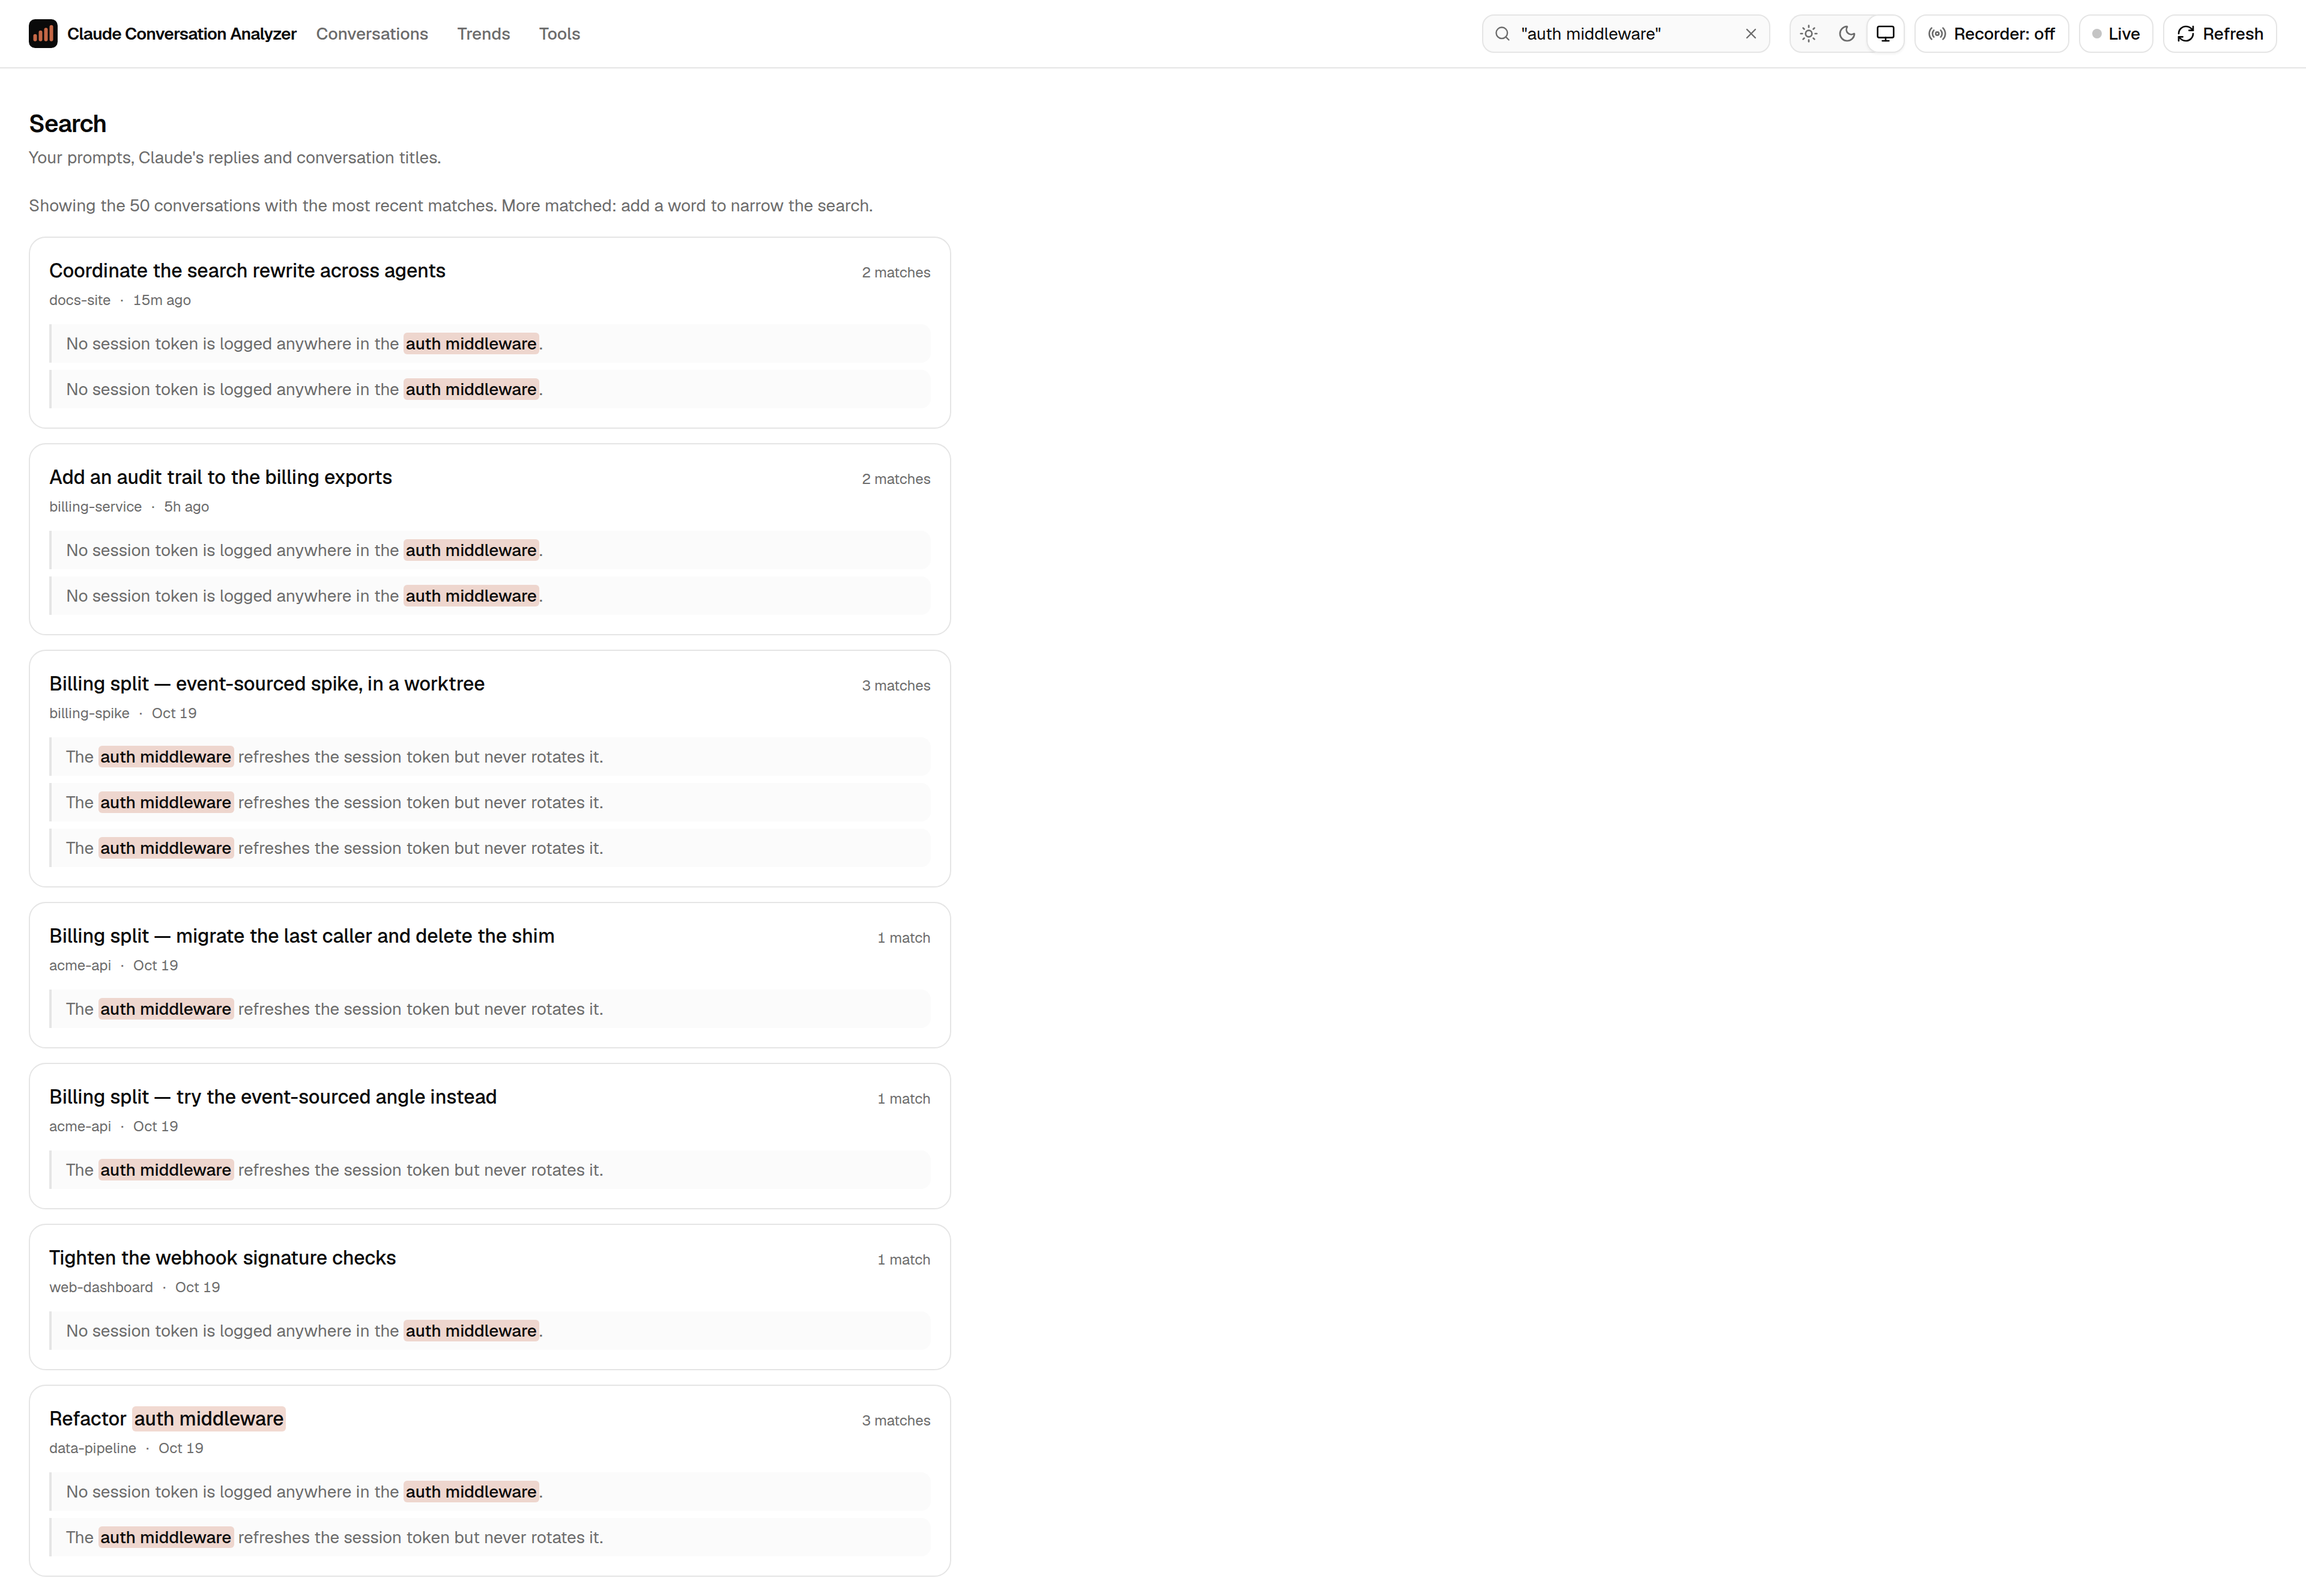
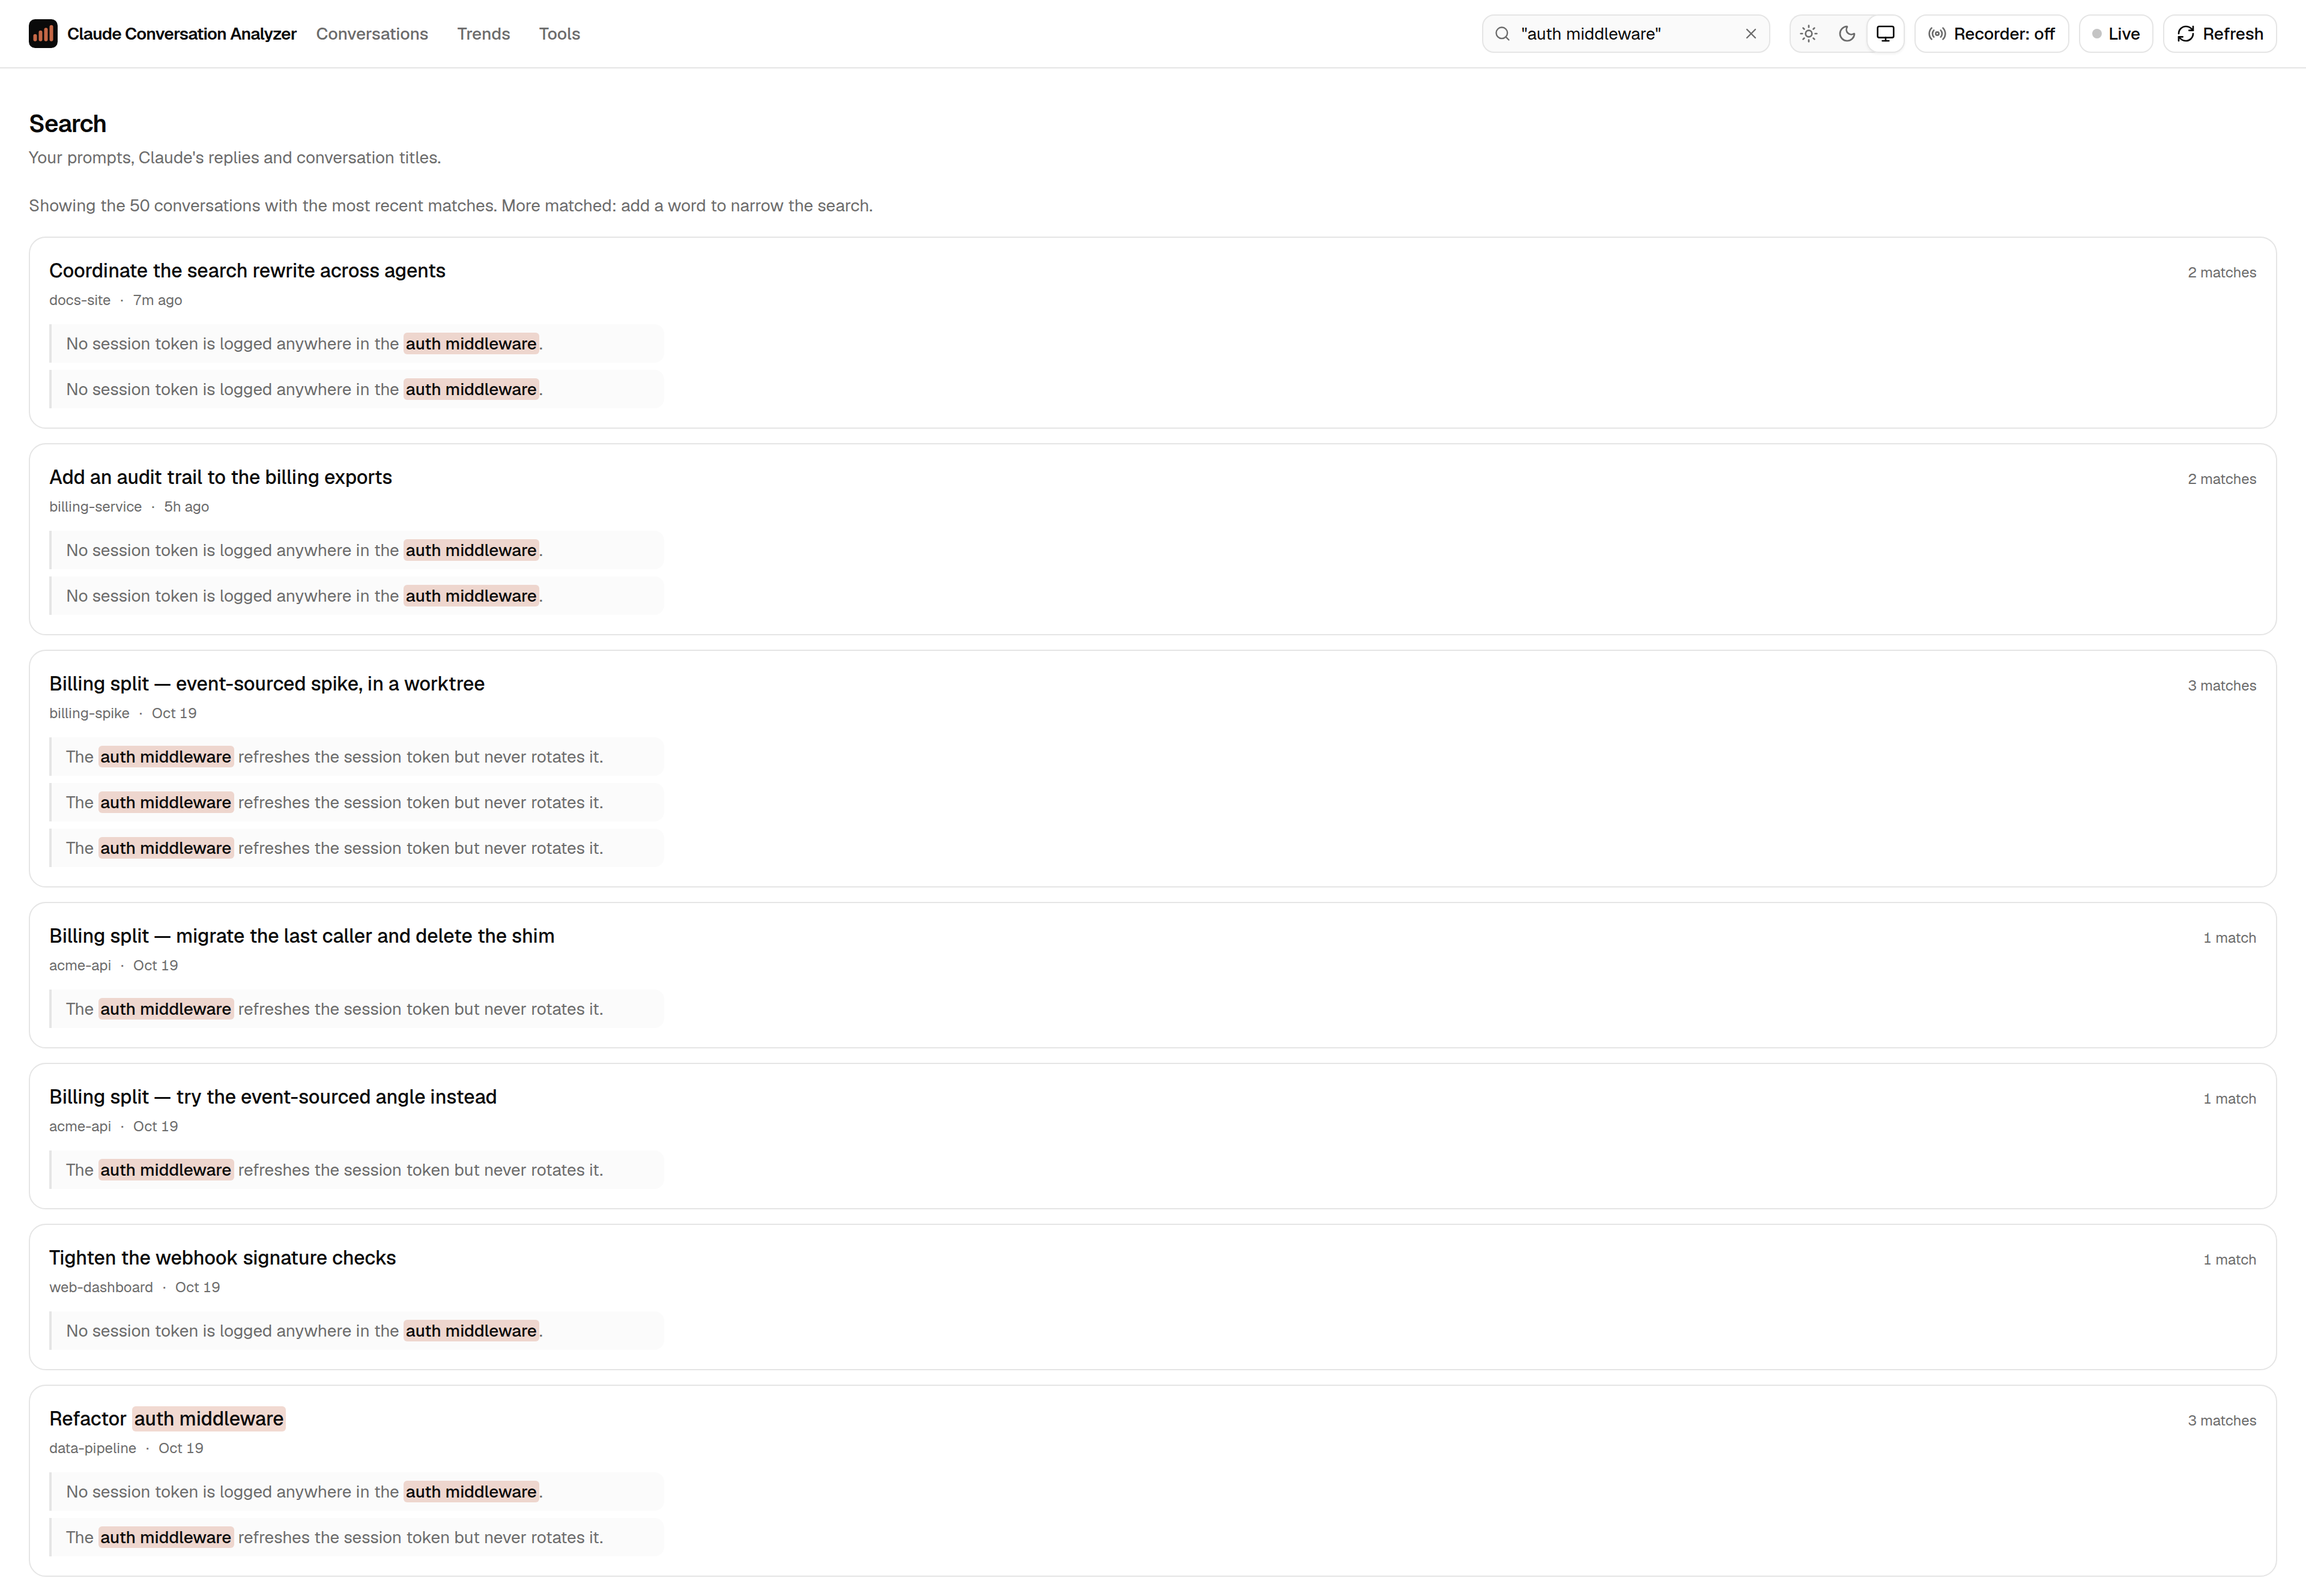
Search results take the 1920px frame; extracts keep the reading measure (#212)
* feat(search): results take the frame, extracts keep the app's reading measure (#211)

* feat(docs): regenerate the Search README screenshot at the full frame (#211)

Changed region(s): [[0.4062, 0.9947, 0.9688, 1.0]]

diff --git a/src/app/search/page.tsx b/src/app/search/page.tsx
@@ -48,7 +48,7 @@ export async function generateMetadata({
 export default function SearchPage({ searchParams }: { searchParams: Promise<PageSearchParams> }) {
   return (
     <main id="main" tabIndex={-1} className="mx-auto w-full max-w-frame px-4 py-6 sm:px-6 lg:py-8">
-      <div className="flex max-w-3xl flex-col gap-5">
+      <div className="flex flex-col gap-5">
         <PageHeader title="Search" description="Your prompts, Claude's replies and conversation titles." />
         <Suspense fallback={<SearchFallback />}>
           <SearchSurface searchParams={searchParams} />
@@ -75,13 +75,13 @@ function SearchFallback() {
         {Array.from({ length: SKELETON_RESULTS }, (_, index) => (
           <div key={index} className="rounded-xl border bg-card p-4">
             <div className="flex h-6 items-center justify-between gap-4">
-              <Skeleton className="h-4 w-72 max-w-[70%]" />
+              <Skeleton className="h-4 w-72" />
               <Skeleton className="h-3 w-16" />
             </div>
             <div className="mt-1 flex h-4 items-center">
               <Skeleton className="h-3 w-40" />
             </div>
-            <div className="mt-3 flex flex-col gap-1.5">
+            <div className="mt-3 flex max-w-measure flex-col gap-1.5">
               {Array.from({ length: (index % 2) + 1 }, (_, extract) => (
                 <Skeleton key={extract} className="h-8 w-full" />
               ))}
@@ -180,7 +180,7 @@ function ResultCard({ result }: { result: SearchResult }) {
         <span title={date.absolute}>{date.label}</span>
       </div>
       {extracts.length > 0 && (
-        <ul className="mt-3 flex flex-col gap-1.5">
+        <ul className="mt-3 flex max-w-measure flex-col gap-1.5">
           {extracts.map((snippet, i) => (
             <li key={`${snippet.source}-${snippet.messageUuid ?? i}`}>
               <SnippetLink result={result} snippet={snippet} />

diff --git a/src/app/globals.css b/src/app/globals.css
@@ -85,6 +85,10 @@
   /* The app's frame: the widest the app bar, the pages and the banners grow
      (`max-w-frame`), so their edges line up on any screen. */
   --container-frame: 120rem;
+  /* The prose reading measure (`max-w-measure`), shared by the transcript and
+     the Search extracts: about 80 characters (14px Geist averages ~6.5px a
+     character). */
+  --container-measure: 32rem;
 }
 
 /* The one small-caps label: table column headers, kind chips and status badges.
@@ -335,10 +339,9 @@ body:has([data-link-pending]) #main {
 .tview {
   --tview-tree: 280px;
   /* The column follows the pane, which the frame bounds, so tool calls, code,
-     diffs and "What was sent" use the screen's width; prose inside it keeps a
-     measure of about 80 characters (14px Geist averages ~6.5px a character). */
+     diffs and "What was sent" use the screen's width; prose inside it keeps
+     the app's reading measure (`--container-measure`). */
   --tview-col: none;
-  --tview-measure: 32rem;
   --tview-gutter: 32px;
   --radius-node: calc(var(--radius) * 0.6);
   display: flex;
@@ -792,7 +795,7 @@ html:has(.tview) {
   border-left-color: var(--agent);
 }
 .tview .prompt-body {
-  max-width: var(--tview-measure);
+  max-width: var(--container-measure);
   white-space: pre-wrap;
   overflow-wrap: anywhere;
 }
@@ -832,7 +835,7 @@ html:has(.tview) {
 /* Prose keeps a comfortable measure; code, tables and tool calls may use the
    column's full width. */
 .tview .turn-body > :is(p, ul, ol, blockquote, h1, h2, h3, h4, h5, h6) {
-  max-width: var(--tview-measure);
+  max-width: var(--container-measure);
 }
 .tview .turn-body > :first-child {
   margin-top: 0;
